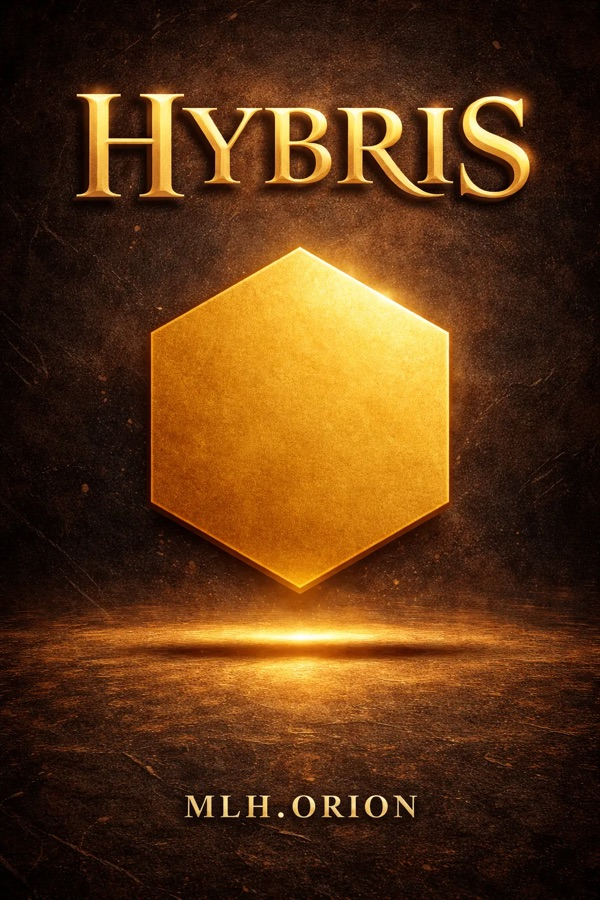
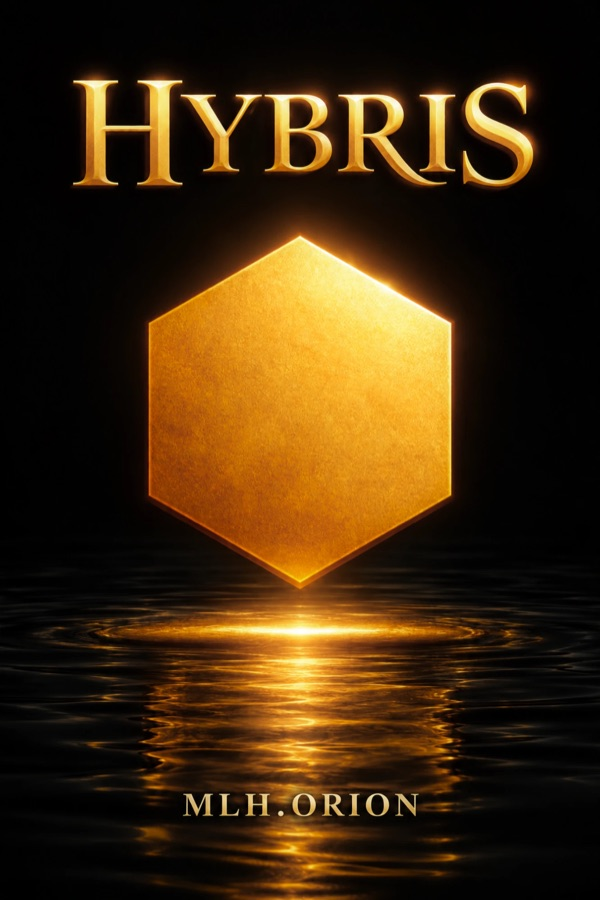
Hybris : nouvelle couverture et nouveau fond de bannière
- Couverture (hexagone d'or au-dessus de l'eau), site et image de partage
- Bannière de l'accueil recomposée à partir de la couverture, hexagone
  ancré à droite pour rester visible sur téléphone

diff --git a/src/components/HybrisBanner.tsx b/src/components/HybrisBanner.tsx
@@ -15,7 +15,8 @@ const HybrisBanner = () => {
             <img
               src={banner}
               alt=""
-              className="w-full h-full object-cover transition-transform duration-[1500ms] group-hover:scale-105"
+              // Ancré à droite : l'hexagone reste visible même sur téléphone.
+              className="w-full h-full object-cover object-[78%_50%] transition-transform duration-[1500ms] group-hover:scale-105"
             />
             {/* Dark overlay for text legibility on the left */}
             <div className="absolute inset-0 bg-gradient-to-r from-black/90 via-black/60 to-black/20 md:from-black/90 md:via-black/50 md:to-transparent" />
